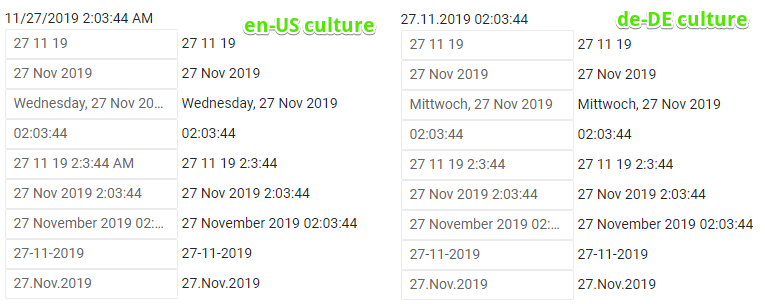
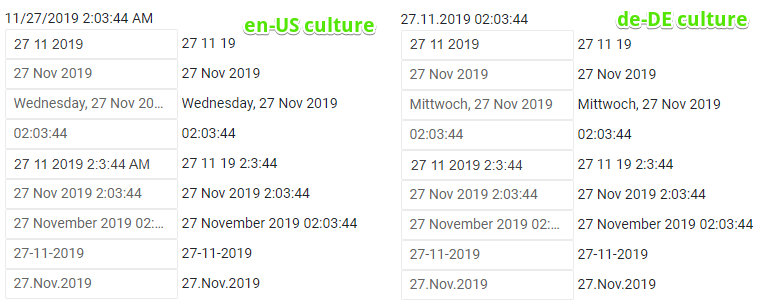
chore(dateinput):fixed outdated example

diff --git a/components/dateinput/supported-formats.md b/components/dateinput/supported-formats.md
@@ -152,7 +152,7 @@ Console.WriteLine(date.ToString("hh:mm:ss tt", CultureInfo.GetCultureInfo("bg-bg
 @TheDate
 <br />
 
-<TelerikDateInput @bind-Value="TheDate" Format="dd MM yy" /> @TheDate.ToString("dd MM yy")
+<TelerikDateInput @bind-Value="TheDate" Format="dd MM yyyy" /> @TheDate.ToString("dd MM yy")
 <br />
 <TelerikDateInput @bind-Value="TheDate" Format="dd MMM yyyy" /> @TheDate.ToString("dd MMM yyyy")
 <br />
@@ -160,7 +160,7 @@ Console.WriteLine(date.ToString("hh:mm:ss tt", CultureInfo.GetCultureInfo("bg-bg
 <br />
 <TelerikDateInput @bind-Value="TheDate" Format="HH:mm:ss" /> @TheDate.ToString("HH:mm:ss")
 <br />
-<TelerikDateInput @bind-Value="TheDate" Format="d M yy h:m:s tt" /> @TheDate.ToString("d M yy h:m:s")
+<TelerikDateInput @bind-Value="TheDate" Format="d M yyyy h:m:s tt" /> @TheDate.ToString("d M yy h:m:s")
 <br />
 <TelerikDateInput @bind-Value="TheDate" Format="dd MMM yyyy H:mm:ss" /> @TheDate.ToString("dd MMM yyyy H:mm:ss")
 <br />
